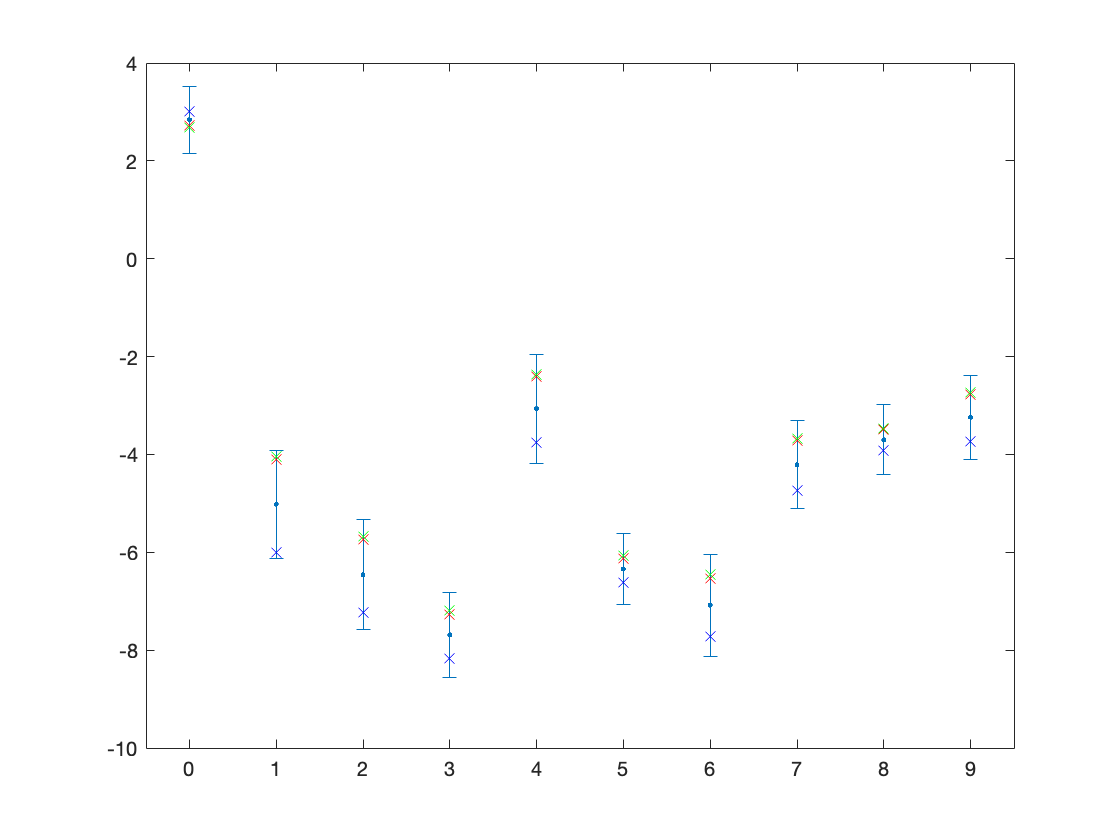
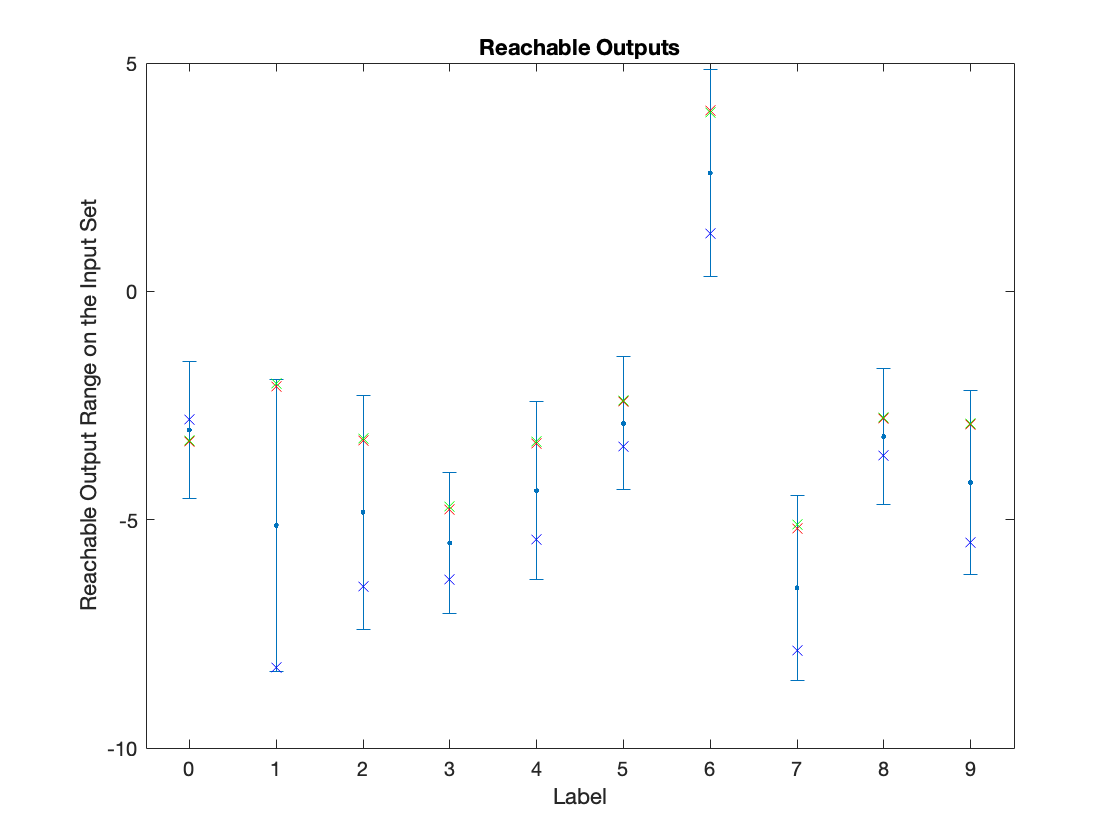
final commit for code used for formalise 2025 submission

diff --git a/src/vvn/test_stmnist.m b/src/vvn/test_stmnist.m
@@ -1,7 +1,7 @@
 %% Load things
 % Load data
-data = readNPY("../../data/STMNIST/test/stmnistvideo_16f_test_data_seq.npy");
-labels = readNPY("../../data/STMNIST/test/stmnistvideo_16f_test_labels_seq.npy");
+data = readNPY("../../data/STMNIST/test/stmnistvideo_64f_test_data_seq.npy");
+labels = readNPY("../../data/STMNIST/test/stmnistvideo_64f_test_labels_seq.npy");
 
 % Preprocessing
 % from [B D C H W] to [B D H W C]
@@ -18,7 +18,7 @@ epsilon = [1/255; 2/255; 3/255];
 nE = length(epsilon);
 
 % Load the model
-modelName = "stmnist_16f.onnx";
+modelName = "stmnist_64f.onnx";
 netonnx = importONNXNetwork("../../models/" + modelName, "InputDataFormats", "BCSSS", "OutputDataFormats", "BC");
 net = matlab2nnv(netonnx);
 net.OutputSize = numClasses;
@@ -31,11 +31,13 @@ reachOptions.relaxFactor = 0.5;
 
 %% Make predictions on test set to check that we are verifying correct
 outputLabels = zeros(length(datacopy));
-index = 2;
+index = 719; % 311 for a really long example
 
 s = datacopy(index,:,:,:,:);
 s = squeeze(s);
 l = labels(index) + 1;
+
+fprintf('Label: %d \n', l);
 
 %%
 %%%%%%%%%%%%%%%%
@@ -43,11 +45,13 @@ l = labels(index) + 1;
 %%%%%%%%%%%%%%%%
 
 % eps = epsilon(1);
-eps = 1/255;
+% eps = 1/255;
+eps = 3/255;
+
 fprintf('Starting verification with epsilon %d \n', eps);
 
 % Perform L_inf attack
-[VS, lb_clip, ub_clip] = L_inf_attack(s, eps, 16);
+[VS, lb_clip, ub_clip] = L_inf_attack(s, eps, 64);
 
 output = net.evaluate(s);
 [~, P] = max(output);
@@ -60,6 +64,9 @@ UB_output = net.evaluate(ub_clip);
 
 %%
 t = tic;
+
+% profiler
+profile on -history;
 
 % NEED THIS HERE SO MET EXISTS
 try
@@ -74,6 +81,8 @@ catch ME
     fprintf(met);
 end
 
+p = profile('info');
+
 res = temp;
 time = toc(t);
 
@@ -81,6 +90,7 @@ fprintf("\n");
 fprintf("Result : %d \n", res);
 fprintf("Time: %f\n", time);
 
+%%
 fprintf("Computing reach sets...\n")
 % Get the reachable sets 
 R = net.reachSet{end};
@@ -106,29 +116,33 @@ x = [0 1 2 3 4 5 6 7 8 9];
 % Visualize set ranges and evaluation points
 % fig = figure('Visible', 'off');
 figure;
-errorbar(x, mid_range, range_size, '.');
+errorbar(x, mid_range, range_size, '.', 'Color', 'r', 'LineWidth', 2);
 hold on;
 xlim([-0.5, 9.5]);
-scatter(x, output, 'x', 'MarkerEdgeColor', 'r');
-scatter(x, LB_output, 'x', 'MarkerEdgeColor', 'g');
-scatter(x, UB_output, 'x', 'MarkerEdgeColor', 'b');
-
+scatter(x, output, 30, 'x', 'MarkerEdgeColor', 'r');
+% scatter(x, LB_output, 'x', 'MarkerEdgeColor', 'g');
+% scatter(x, UB_output, 'x', 'MarkerEdgeColor', 'b');
+title('Reachable Outputs');
+xlabel('Label');
+ylabel('Reachable Output Range on the Input Set');
 % Save the figure
-% saveas(figure, "bad_test_stmnist_plot.png");
+saveas(figure, "new_bad_test_stmnist_plot.png");
 
 
 
 %% Helper Functions
 function [VS, lb_clip, ub_clip] = L_inf_attack(x, epsilon, numFrames)
-    x = permute(x, [2, 3, 1, 4]);
+    % x = permute(x, [2, 3, 1, 4]);
 
     lb = squeeze(x);
     ub = squeeze(x);
 
     % Perturb the frames
     for fn=1:numFrames
-        lb(:, :, fn, :) = x(:, :, fn, :) - epsilon;
-        ub(:, :, fn, :) = x(:, :, fn, :) + epsilon;
+        lb(fn, :, :, :) = x(fn, :, :, :) - epsilon;
+        ub(fn, :, :, :) = x(fn, :, :, :) + epsilon;
+        % lb(:, :, fn, :) = x(:, :, fn, :) - epsilon;
+        % ub(:, :, fn, :) = x(:, :, fn, :) + epsilon;
     end
 
     % Reshape for conversion to VolumeStar
@@ -136,8 +150,10 @@ function [VS, lb_clip, ub_clip] = L_inf_attack(x, epsilon, numFrames)
     % ub = permute(ub, [2 3 1 4]);
 
     % Clip the perturbed values to be between 0-1
-    lb_min = zeros(10, 10, numFrames, 2);
-    ub_max = ones(10, 10, numFrames, 2);
+    lb_min = zeros(numFrames, 10, 10, 2);
+    ub_max = ones(numFrames, 10, 10, 2);
+    % lb_min = zeros(10, 10, numFrames, 2);
+    % ub_max = ones(10, 10, numFrames, 2);
     lb_clip = max(lb, lb_min);
     ub_clip = min(ub, ub_max);
 

diff --git a/summarize.py b/summarize.py
@@ -70,39 +70,54 @@ if __name__ == "__main__":
     # ============ APPROX =================
     # =====================================
 
-    # config = Config(
-    #     sample_gen_type='random',
-    #     class_size=10,
-    #     epsilon=[1/255, 2/255, 3/255],
-    #     ds_type='zoom_in',
-    #     sample_len=4,
-    #     attack_type='all_frames',
-    #     ver_algorithm='approx',
-    #     timeout=3600,
-    #     output_dir=output_dir
-    # )
+    config = Config(
+        sample_gen_type='random',
+        class_size=10,
+        epsilon=[1/255, 2/255, 3/255],
+        ds_type='zoom_in',
+        sample_len=4,
+        attack_type='all_frames',
+        ver_algorithm='approx',
+        timeout=3600,
+        output_dir=output_dir
+    )
 
-    # # run experiment #1 : dataset = zoom in, video length = 4
+    # run experiment #1 : dataset = zoom in, video length = 4
     # vvn.summarize(output_file_dir=vp.build_output_filepath(config, parent_only=True))
 
-    # # run experiment #2 : dataset = zoom out, video length = 4
+    # run experiment #2 : dataset = zoom out, video length = 4
     # config.ds_type = 'zoom_out'
     # vvn.summarize(output_file_dir=vp.build_output_filepath(config, parent_only=True))
+    
+    # run experiment #3: dataset = gtsrb, video_length = 4
+    config.ds_type = 'gtsrb'
+    vvn.summarize(output_file_dir=vp.build_output_filepath(config, parent_only=True), data_len=215)
 
-    # # run experiment #3 : dataset = zoom in , video length = 8
+    # run experiment #4 : dataset = zoom in , video length = 8
     # config.ds_type = 'zoom_in'
     # config.sample_len = 8
     # vvn.summarize(output_file_dir=vp.build_output_filepath(config, parent_only=True))
 
-    # # run experiment #4 : dataset = zoom out, video length = 8
+    # run experiment #5 : dataset = zoom out, video length = 8
     # config.ds_type = 'zoom_out'
     # vvn.summarize(output_file_dir=vp.build_output_filepath(config, parent_only=True))
 
-    # # run experiment #5 : dataset = zoom in, video length = 16
+    # run experiment #6 : dataset = gtsrb, video_length = 4
+    config.ds_type = 'gtsrb'
+    config.sample_len = 8
+    vvn.summarize(output_file_dir=vp.build_output_filepath(config, parent_only=True), data_len=215)    
+
+    # run experiment #7 : dataset = zoom in, video length = 16
     # config.ds_type = 'zoom_in'
     # config.sample_len = 16
     # vvn.summarize(output_file_dir=vp.build_output_filepath(config, parent_only=True))
 
-    # # run experiment #6 : dataset = zoom out, video length = 16
+    # run experiment #8 : dataset = zoom out, video length = 16
     # config.ds_type = 'zoom_out'
     # vvn.summarize(output_file_dir=vp.build_output_filepath(config, parent_only=True))
+
+    # run experiment #9 : dataset = gtsrb, video_length = 4
+    config.ds_type = 'gtsrb'
+    config.sample_len = 16
+    vvn.summarize(output_file_dir=vp.build_output_filepath(config, parent_only=True), data_len=215)
+

diff --git a/src/vvn/test_stmnist_models.m b/src/vvn/test_stmnist_models.m
@@ -1,0 +1,44 @@
+%% Load things
+% Number of frames
+nF = 4;
+
+% Load data
+data = readNPY(sprintf("../../data/STMNIST/test/stmnistvideo_%df_test_data_seq.npy", nF));
+labels = readNPY(sprintf("../../data/STMNIST/test/stmnistvideo_%df_test_labels_seq.npy", nF));
+
+% Preprocessing
+% from [B D C H W] to [B D H W C]
+reshaped_data = permute(data, [1, 3, 4, 5, 2]);
+datacopy = reshaped_data(:,:,:,:,:);
+
+% Experimental variables
+numClasses = 10;
+
+% Load the model
+modelName = sprintf("stmnist_%df.onnx", nF);
+netonnx = importONNXNetwork("../../models/" + modelName, "InputDataFormats", "BCSSS", "OutputDataFormats", "BC");
+net = matlab2nnv(netonnx);
+net.OutputSize = numClasses;
+disp("Finished loading model: " + modelName);
+
+
+%% Make predictions on test set to check that we are verifying correct
+outputLabels = zeros(length(datacopy), 1);
+correct = 0;
+total = length(datacopy);
+
+for i=1:total
+    s = datacopy(i,:,:,:,:);
+    s = squeeze(s);
+    l = labels(i) + 1;
+
+    output = net.evaluate(s);
+    [~, P] = max(output);
+
+    if P == l
+        correct = correct + 1;
+    end
+end
+
+acc = correct / total;
+fprintf("All done! \n")

diff --git a/src/cora/test_cora.m b/src/cora/test_cora.m
@@ -27,6 +27,36 @@ netonnx = neuralNetwork.readONNXNetwork("../../models/" + modelName, verbose, "B
 % net.OutputSize = numClasses;
 disp("Finished loading model: " + modelName);
 
+%%
+display(netonnx);
+
+%%
+% B D H W C
+s = datacopy(1,:,:,:,:);
+s = squeeze(s);
+% s = permute(s, [2 3 1 4]);
+l = labels(1)+1;
+
+%%
+disp("start here")
+P = netonnx.evaluate(s);
+[~, Pred] = max(P);
+%%
+count = 0;
+for i=1:25
+    disp(i)
+    s = datacopy(i,:,:,:,:);
+    s = squeeze(s);
+    s = permute(s, [2 3 1 4]);
+    l = labels(i)+1;
+    P = netonnx.evaluate(s);
+    [~, Pred] = max(P);
+    if Pred == l
+        count = count + 1;
+    else
+        fprintf('missed on iteration %d', i);
+    end
+end
 %% Verification settings
 reachOptions = struct;
 reachOptions.reachMethod = "relax-star-area";
